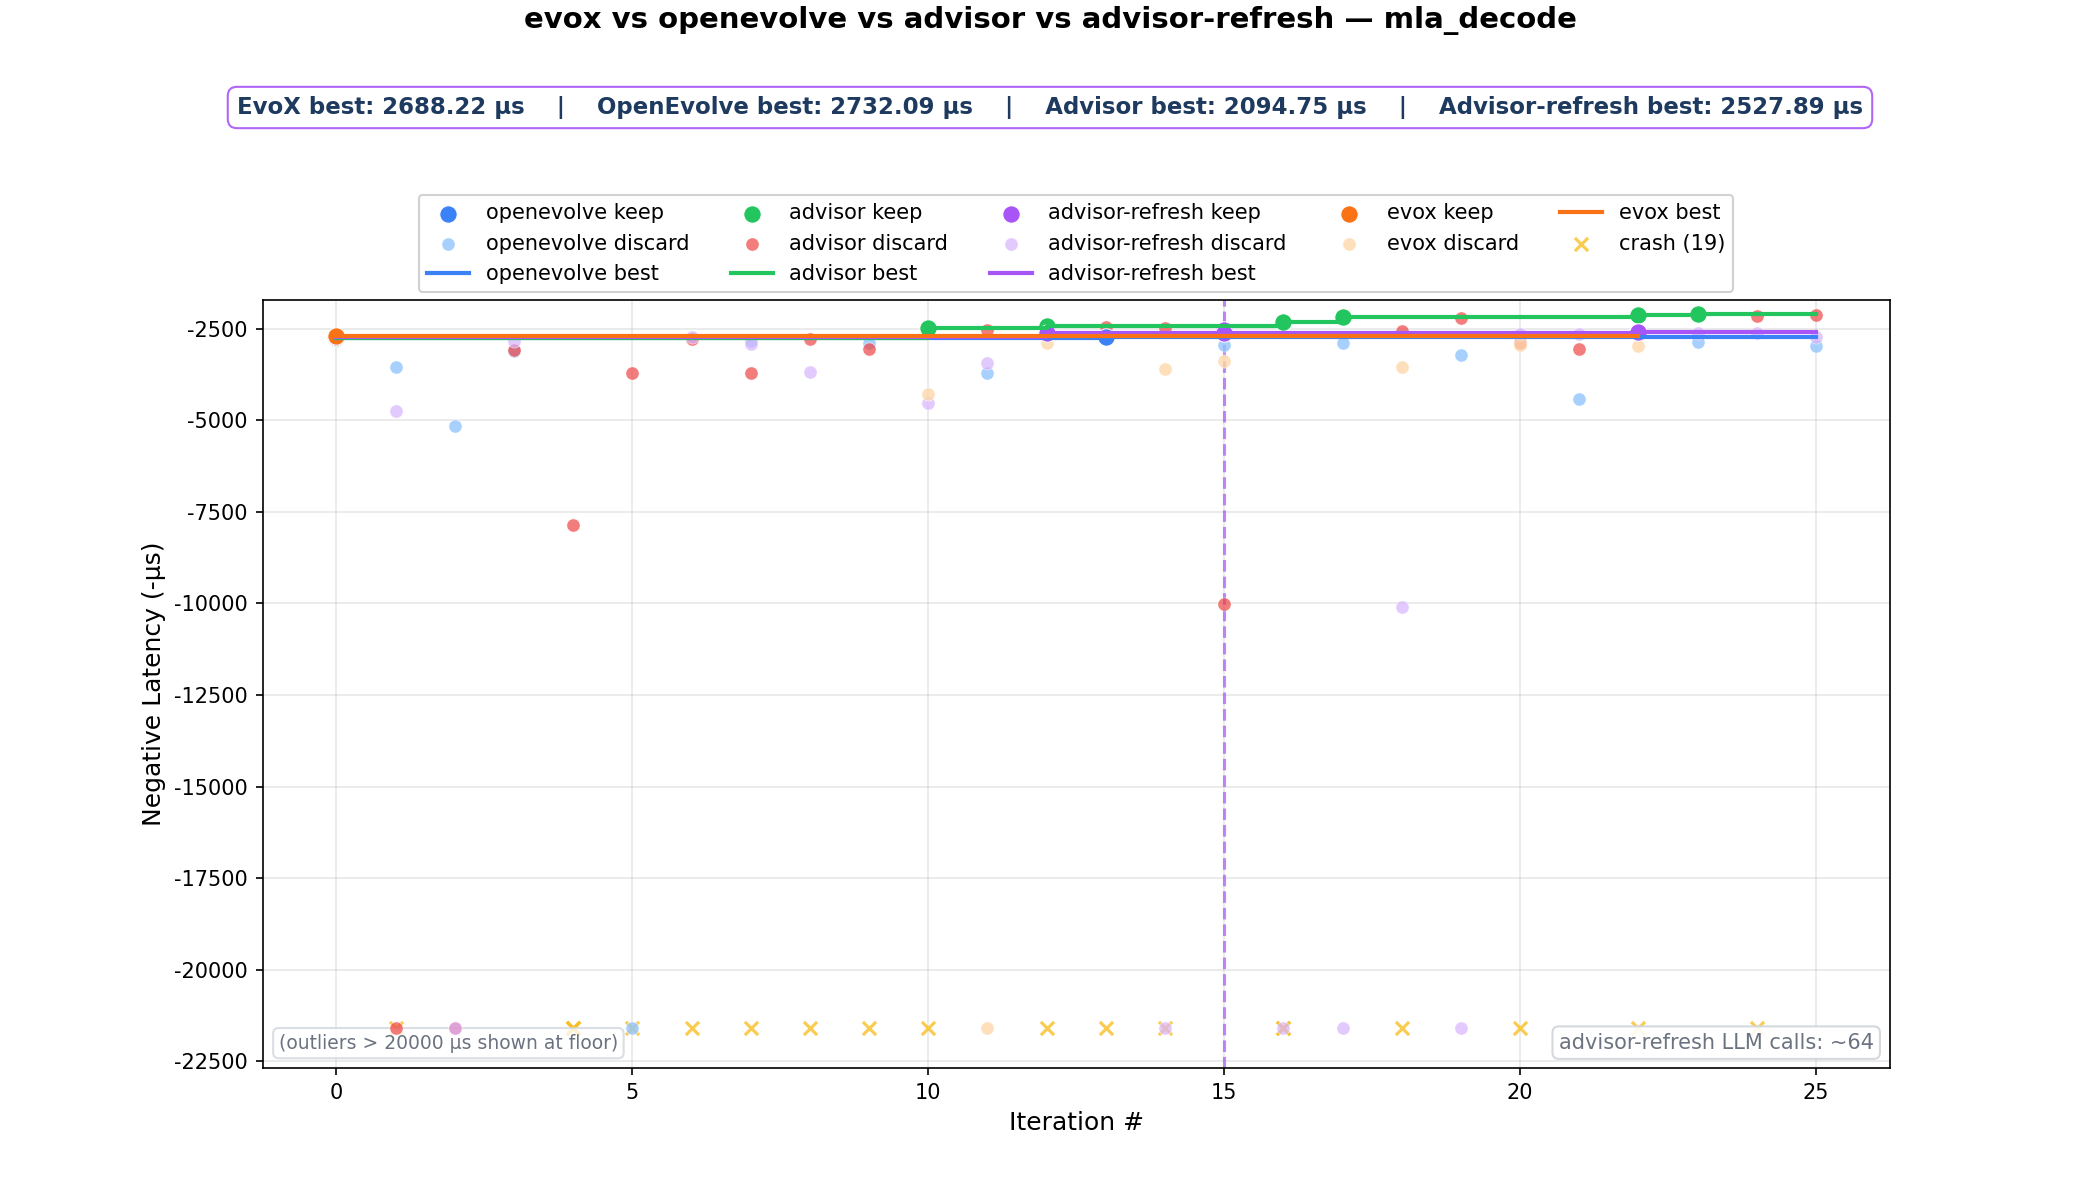
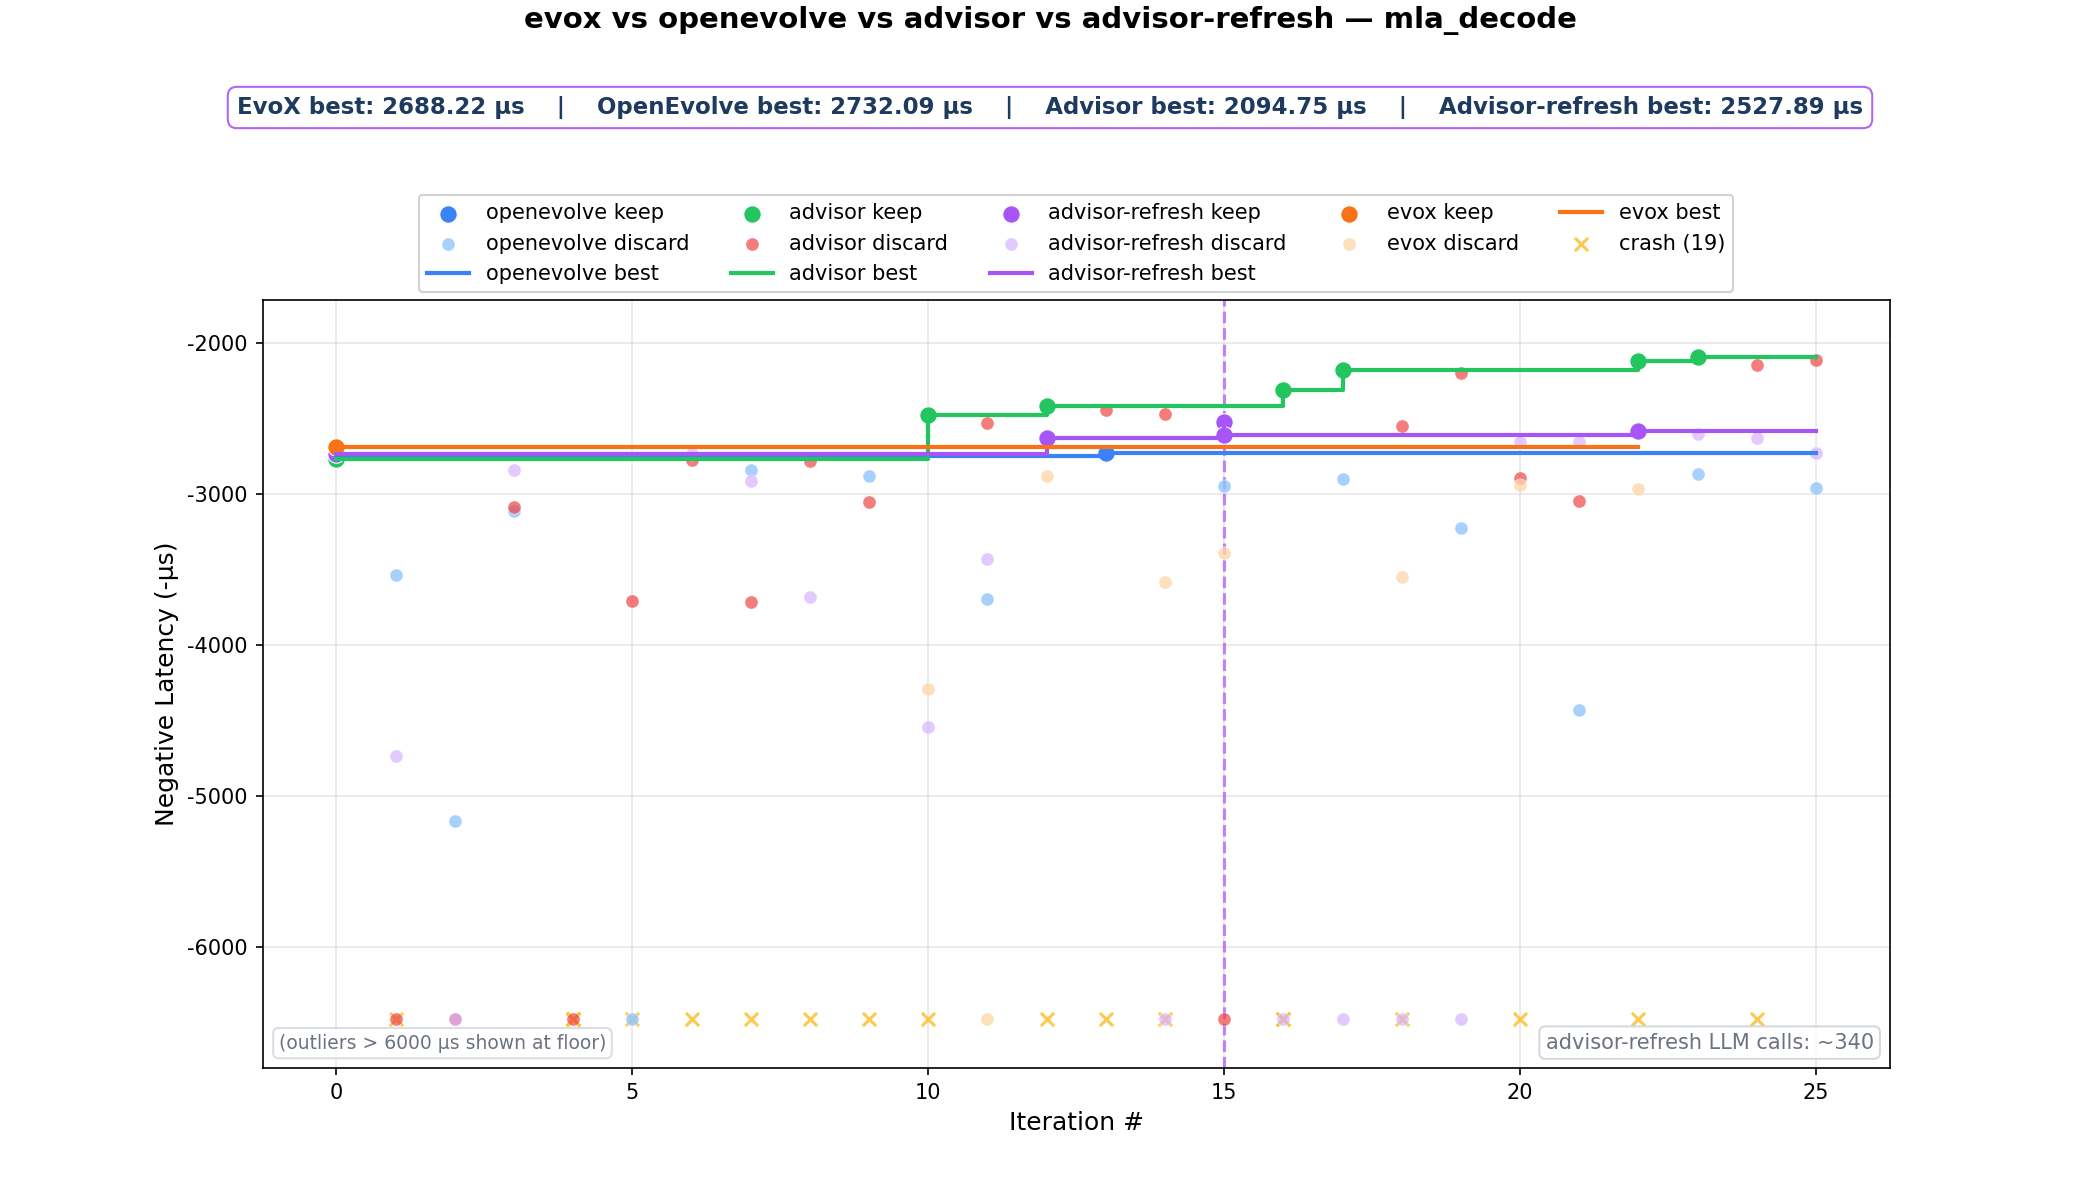
plot added

diff --git a/plot_comparison.py b/plot_comparison.py
@@ -169,7 +169,7 @@ oe_best   = min(oe_by) if oe_by else float("inf")
 evox_best = min(evox_by) if evox_by else float("inf")
 
 # ── Y-axis (negative latency, clip outliers) ──────────────────────────────────
-CLIP_US = 20000.0
+CLIP_US = 6000.0
 all_valid = [t for t in adv_times + refresh_times + oe_times + evox_times if 0 < t <= CLIP_US]
 y_hi = -(min(all_valid) * 0.82)
 y_lo = -(CLIP_US * 1.08)
@@ -177,7 +177,7 @@ y_lo = -(CLIP_US * 1.08)
 def ny(t):
     return max(-t, y_lo) if t > 0 else y_lo
 
-LLM_CALLS = 64  # advisor-refresh approximate total
+LLM_CALLS = 340  # advisor-refresh total (193 epoch 1 + 147 epoch 2)
 
 # ── Plot ──────────────────────────────────────────────────────────────────────
 fig, ax = plt.subplots(figsize=(14, 8))